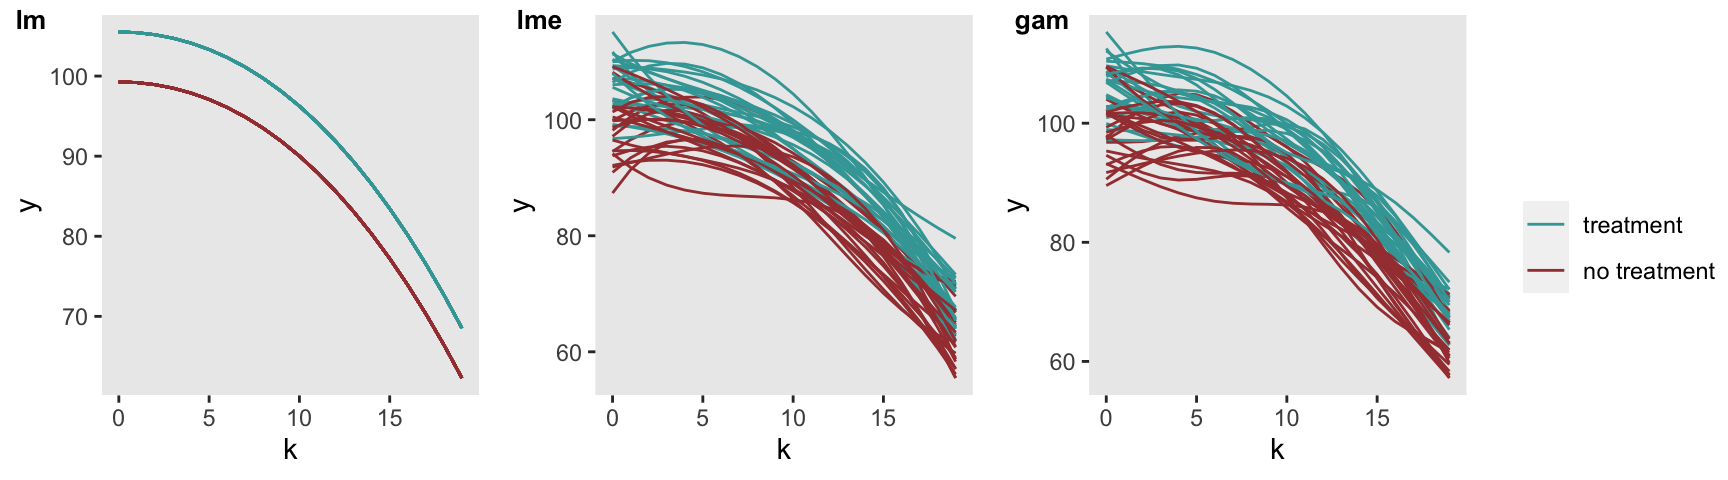
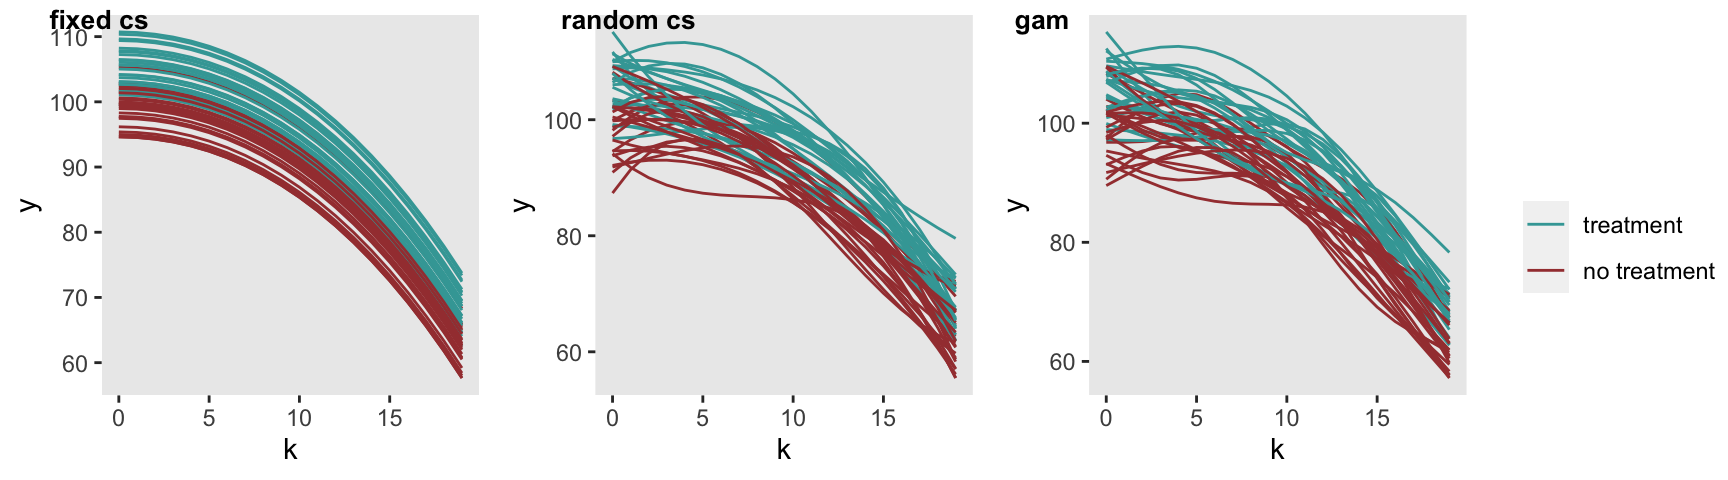
Updating draft

diff --git a/content/post/2022-10-11-modeling-secular-trend-in-CRT-using-gam/index.en.html b/content/post/2022-10-11-modeling-secular-trend-in-CRT-using-gam/index.en.html
@@ -16,10 +16,11 @@ draft: 'true'
 
 
 <p>A key challenge - maybe <em>the</em> key challenge - of a <a href="https://www.rdatagen.net/post/alternatives-to-stepped-wedge-designs/" target="_blank">stepped wedge clinical trial design</a> is the threat of confounding by time. This is a cross-over design where the unit of randomization is a group or cluster, where each cluster begins in the control state and transitions to the intervention. It is the transition point that is randomized. Since outcomes could be changing over time regardless of the intervention, it is important to model the time trends when conducting the efficacy analysis.</p>
-<p>I am not going to talk more about stepped wedge designs here (there is a huge and growing literature describing the issues, starting with <a href="https://academic.oup.com/ije/article/49/3/1043/5835358" target="_blank">this paper</a> would be a fine place to start), but will briefly describe a flexible way to model time trends. And I am going to simplify a bit to assume that we are talking about a cluster randomized trial (CRT), where clusters are randomized to treatment or control only. Confounding by time is not really an issue here, since treatment and control are implemented in parallel across different clusters, but we still might want to model time to get more efficient estimates of the treatment effect.</p>
+<p>I am not going to talk more about stepped wedge designs here (if you want more background <a href="https://academic.oup.com/ije/article/49/3/1043/5835358" target="_blank">this paper</a> would be a fine place to start), but will briefly describe a flexible way to model time trends. And I am going to simplify a bit to assume that we are talking about a cluster randomized trial (CRT), where clusters are randomized to treatment or control only. Confounding by time is not really an issue here, since treatment and control are implemented in parallel across different clusters, but we still might want to model time to get more efficient estimates of the treatment effect.</p>
 <p>As I typically do here, I am simulating data and exploring a few modeling options.</p>
 <div id="simulating-the-data" class="section level3">
 <h3>Simulating the data</h3>
+<p>Before we start, here are the libraries I’ve used to generate and present the data:</p>
 <pre class="r"><code>library(simstudy)
 library(ggplot2)
 library(cowplot)
@@ -31,10 +32,24 @@ library(gamm4)</code></pre>
 </div>
 <div id="data-generating-process" class="section level3">
 <h3>Data generating process</h3>
+<p>I am generating data for 48 clusters over 20 periods. For each cluster and period, there are 30 individuals. Here is what the cluster averages at each time point <span class="math inline">\(k\)</span> look like:</p>
 <p><img src="{{< blogdown/postref >}}index.en_files/figure-html/figure1-1.png" width="672" /></p>
+<p>The data generation process that underlies this plot is:</p>
 <p><span class="math display">\[
-Y_{ijk} = 100 + b_{0j} + b_{1jk} - 0.1k^2 + 5A_j
+Y_{ijk} \sim N(\mu =100 + b^0_{j} + b^1_{jk} - 0.1k^2 + 5A_j, \sigma^2 = 36)
 \]</span></p>
+<p><span class="math inline">\(Y_{ijk}\)</span> is the outcome measurement for individual <span class="math inline">\(i\)</span> in cluster <span class="math inline">\(j\)</span> at period <span class="math inline">\(k\)</span>. In this case, <span class="math inline">\(k \in \{0, \dots, 19\}\)</span>. There is an increasing decline in <span class="math inline">\(Y\)</span> over time (based on the quadratic term <span class="math inline">\(k^2\)</span>). <span class="math inline">\(A_j\)</span> is a treatment indicator for cluster <span class="math inline">\(j\)</span>, and <span class="math inline">\(A \in \{0 ,1\}\)</span>.</p>
+<p><span class="math inline">\(b_{0j}\)</span> is a cluster-level random intercept, <span class="math inline">\(b^0_{j} \sim N(\mu = 0, \sigma^2 = 6)\)</span>. <span class="math inline">\(b^1_{jk}\)</span> is a cluster-specific time period effect for each time period <span class="math inline">\(k\)</span>; the vector of cluster-time effects <span class="math inline">\(\mathbf{b^1_j} \sim N(0, \Sigma)\)</span>, where <span class="math inline">\(\Sigma = DRD\)</span> is a <span class="math inline">\(20 \times 20\)</span> covariance matrix based on an auto-regressive correlation structure <span class="math inline">\(R\)</span> and a diagonal matrix <span class="math inline">\(D\)</span>:</p>
+<p><span class="math display">\[ D = 16 * I_{20 \times 20}\]</span>
+and</p>
+<p><span class="math display">\[ R =\begin{bmatrix}
+1 &amp; \rho &amp; \rho^2 &amp; \dots &amp; \rho^{19} \\
+\rho &amp; 1 &amp; \rho &amp; \dots &amp; \rho^{18} \\
+\rho^2 &amp; \rho &amp; 1 &amp; \dots &amp; \rho^{17} \\
+\vdots &amp; \vdots &amp; \vdots &amp; \vdots &amp; \vdots \\
+\rho^{19} &amp; \rho^{18} &amp; \rho^{17} &amp; \dots &amp; 1 \\
+\end{bmatrix}, \ \ \rho = 0.7 \]</span></p>
+<p>The <code>simstudy</code> definitions prepare for <span class="math inline">\(b^0\)</span>, <span class="math inline">\(A\)</span>, <span class="math inline">\(D\)</span>, and <span class="math inline">\(Y\)</span>. The vector <span class="math inline">\(\mathbf{b^1}\)</span> is generated separately in the actual data generation process. Here are the definitions:</p>
 <pre class="r"><code>def &lt;- defData(varname = &quot;b0&quot;, formula = 0, variance = 6)
 def &lt;- defData(def, varname = &quot;A&quot;, formula = &quot;1;1&quot;, dist = &quot;trtAssign&quot;)
 def &lt;- defData(def, varname = &quot;mu&quot;, formula = 0, dist = &quot;nonrandom&quot;)
@@ -43,6 +58,7 @@ def &lt;- defData(def, varname = &quot;s2&quot;, formula = 16, dist = &quot;nonr
 defOut &lt;- defDataAdd(varname = &quot;y&quot;, 
   formula = &quot;100 + b0 + b1k - 0.1 * k^2 + 5*A&quot;, 
   variance = 36)</code></pre>
+<p>And here is the data generation process. <code>addCorGen</code> adds the correlated cluster-time effects:</p>
 <pre class="r"><code>set.seed(123)
 
 dd &lt;- genData(48, def, id = &quot;site&quot;)
@@ -55,58 +71,64 @@ dd &lt;- addCorGen(dtOld = dd, idvar = &quot;site&quot;, nvars = 20,
 dd &lt;- genCluster(dd, &quot;timeID&quot;, numIndsVar = 30, level1ID = &quot;id&quot;)
 dd &lt;- addColumns(defOut, dd)</code></pre>
 </div>
-<div id="time-without-structure" class="section level3">
-<h3>Time without structure</h3>
-<p>In stepped wedge designs - it is quite common to assume little if no structure in time trends. In the context of a CRT this could be set up by including a time-specific effect for each period <span class="math inline">\(k\)</span>, as in this model for an outcome <span class="math inline">\(Y_{ijk}\)</span> for individivual <span class="math inline">\(i\)</span> in group <span class="math inline">\(j\)</span>:</p>
+<div id="some-modeling-options" class="section level3">
+<h3>Some modeling options</h3>
+<p>If we are interested in accounting for the secular (or time) trend when estimating the treatment effect, we have a number of different options. We can assume there is no structure to the pattern of time, we can impose an extreme form of structure, or we can try to find a middle ground.</p>
+<div id="time-without-structure" class="section level4">
+<h4>Time without structure</h4>
+<p>In stepped wedge designs - it is quite common to assume little if no structure in time trends. In the context of a CRT this could be set up by including a time-specific effect for each period <span class="math inline">\(k\)</span>, as in this model for an outcome <span class="math inline">\(Y_{ijk}\)</span> for individual <span class="math inline">\(i\)</span> in group <span class="math inline">\(j\)</span>:</p>
 <p><span class="math display">\[
-Y_{ijk} = \beta_0 + b_j + \delta A_j + \gamma_k
+Y_{ijk} = \beta_0 + \gamma_k + \delta A_j + b_j +e_{ijk}
 \]</span></p>
-<p>where <span class="math inline">\(A_j\)</span> is an indicator for treatment <span class="math inline">\(j\)</span>, and is set to 1 if cluster <span class="math inline">\(j\)</span> has been randomized to the intervention. <span class="math inline">\(\beta_0\)</span> and <span class="math inline">\(b_0\)</span> are the intercept and random intercept, respectively. <span class="math inline">\(\delta\)</span> is the effect size parameter. <span class="math inline">\(\gamma_k\)</span> is the time-specific effect for period <span class="math inline">\(k\)</span>. This is a totally reasonable approach to take, but if <span class="math inline">\(k\)</span> starts to get quite large, this means we need to need estimate large number of parameters, which is not always desirable.</p>
+<p>where <span class="math inline">\(A_j\)</span> is an indicator for treatment <span class="math inline">\(j\)</span>, and is set to 1 if cluster <span class="math inline">\(j\)</span> has been randomized to the intervention. <span class="math inline">\(\beta_0\)</span> and <span class="math inline">\(b_0\)</span> are the intercept and random intercept, respectively. <span class="math inline">\(\delta\)</span> is the effect size parameter. <span class="math inline">\(\gamma_k\)</span> is the time-specific effect for period <span class="math inline">\(k\)</span>. This is a totally reasonable approach to take, but if <span class="math inline">\(k\)</span> starts to get quite large, we would need to need estimate large number of parameters, which is not always desirable.</p>
 </div>
-<div id="time-with-over-simplified-structure" class="section level3">
-<h3>Time with over-simplified structure</h3>
+<div id="time-with-over-simplified-structure" class="section level4">
+<h4>Time with over-simplified structure</h4>
 <p>An alternative approach is to model time in a linear fashion as</p>
 <p><span class="math display">\[
-Y_{ijk} = \beta_0 + b_j + \delta A_j + \gamma k
-\]</span>
-where we have a single parameter <span class="math inline">\(\gamma\)</span> instead of <span class="math inline">\(k\)</span> parameters. This gets around the problem of a large number paramters, but it imposes a very strong assumption that the outcome <span class="math inline">\(Y\)</span> changes linerally over time. This is unlikely to be the case. We could fit a quadratic model like</p>
-<p><span class="math display">\[
-Y_{ijk} = \beta_0 + b_j + \delta A_j + \gamma_0 k + \gamma_1 k^2
-\]</span>
-but the assumption is still quite strong. So, I am looking for something a little more flexible.</p>
-</div>
-<div id="linear-model-with-cubic-spline" class="section level3">
-<h3>Linear model with cubic spline</h3>
-<p><span class="math display">\[
-Y_{ijk} = \beta_0 + s(k) + \delta A_j
+Y_{ijk} = \beta_0 + \gamma k + \delta A_j  + b_j + e_{ijk}
 \]</span></p>
-<pre class="r"><code>lmfit &lt;- lm(y ~ A + bs(x = k, degree = 3, intercept = TRUE) - 1, data = dd)
-coef(summary(lmfit))[&quot;A&quot;, c(&quot;Estimate&quot;, &quot;Std. Error&quot;)]</code></pre>
-<pre><code>##   Estimate Std. Error 
-##     6.2340     0.0881</code></pre>
-</div>
-<div id="mixed-effects-model-with-site-specific-cubic-spline" class="section level3">
-<h3>Mixed effects model with site-specific cubic spline</h3>
+<p>where we have a single parameter <span class="math inline">\(\gamma\)</span> instead of <span class="math inline">\(k\)</span> parameters. This gets around the problem of a large number parameters, but it imposes a very strong assumption that the outcome <span class="math inline">\(Y\)</span> changes linearly over time. This is unlikely to be the case. We could fit a quadratic model like</p>
 <p><span class="math display">\[
-Y_{ijk} = \beta_0 + cs_j(k) + \delta A_j
+Y_{ijk} = \beta_0  + \gamma_0 k + \gamma_1 k^2 + \delta A_j + b_j  + e_{ijk}
+\]</span></p>
+<p>but the assumption is still quite strong. So, I am looking for something a little more flexible.</p>
+</div>
+<div id="mixed-effects-model-with-fixed-cubic-spline-and-random-intercept" class="section level4">
+<h4>Mixed effects model with fixed cubic spline and random intercept</h4>
+<p><span class="math display">\[
+Y_{ijk} = \beta_0 + cs(k) + \delta A_j + b_j  + e_{ijk}
 \]</span></p>
 <pre class="r"><code>dd[, normk := (k - min(k))/(max(k) - min(k))]
 
-lmefit &lt;- lmer(y ~ A + ( bs(normk) | site) , data = dd)
-summary(lmefit)$coefficients[&quot;A&quot;, c(&quot;Estimate&quot;, &quot;Std. Error&quot;)]</code></pre>
+fix_cs &lt;- lmer(y ~ A + bs(normk) + ( 1  | site) , data = dd)
+summary(fix_cs)$coefficients[&quot;A&quot;, c(&quot;Estimate&quot;, &quot;Std. Error&quot;)]</code></pre>
+<pre><code>##   Estimate Std. Error 
+##      6.234      0.852</code></pre>
+</div>
+<div id="mixed-effects-model-with-random-cubic-spline" class="section level4">
+<h4>Mixed effects model with random cubic spline</h4>
+<p><span class="math display">\[
+Y_{ijk} = \beta_0 + \delta A_j + cs_j(k) + e_{ijk}
+\]</span></p>
+<pre class="r"><code>dd[, normk := (k - min(k))/(max(k) - min(k))]
+
+ran_cs &lt;- lmer(y ~ A + ( bs(normk) | site) , data = dd)
+summary(ran_cs)$coefficients[&quot;A&quot;, c(&quot;Estimate&quot;, &quot;Std. Error&quot;)]</code></pre>
 <pre><code>##   Estimate Std. Error 
 ##      6.612      0.802</code></pre>
 </div>
-<div id="generalized-additive-model-with-site-specific-smoothing" class="section level3">
-<h3>Generalized additive model with site-specific smoothing</h3>
+<div id="generalized-additive-model-with-site-specific-smoothing" class="section level4">
+<h4>Generalized additive model with site-specific smoothing</h4>
 <p><span class="math display">\[
-Y_{ijk} = \beta_0 + f_j(k) + \delta A_j
+Y_{ijk} = \beta_0 + \delta A_j + f_j(k) +e_{ijk}
 \]</span></p>
 <pre class="r"><code>dd$site &lt;- as.factor(dd$site)
 
-gamfit &lt;- gamm(y ~ A + s(k, site, bs = &quot;fs&quot;, k = 5), data = dd, method=&quot;REML&quot;)
-cbind(summary(gamfit$gam)$p.coeff, summary(gamfit$gam)$se)[2,]</code></pre>
+gam &lt;- gamm(y ~ A + s(k, site, bs = &quot;fs&quot;, k = 5), data = dd, method=&quot;REML&quot;)
+cbind(summary(gam$gam)$p.coeff, summary(gam$gam)$se)[2,]</code></pre>
 <pre><code>## [1] 6.209 0.865</code></pre>
 <p><img src="{{< blogdown/postref >}}index.en_files/figure-html/figure2-1.png" width="864" /></p>
 <p><img src="{{< blogdown/postref >}}index.en_files/figure-html/figure3-1.png" width="768" /></p>
+</div>
 </div>
